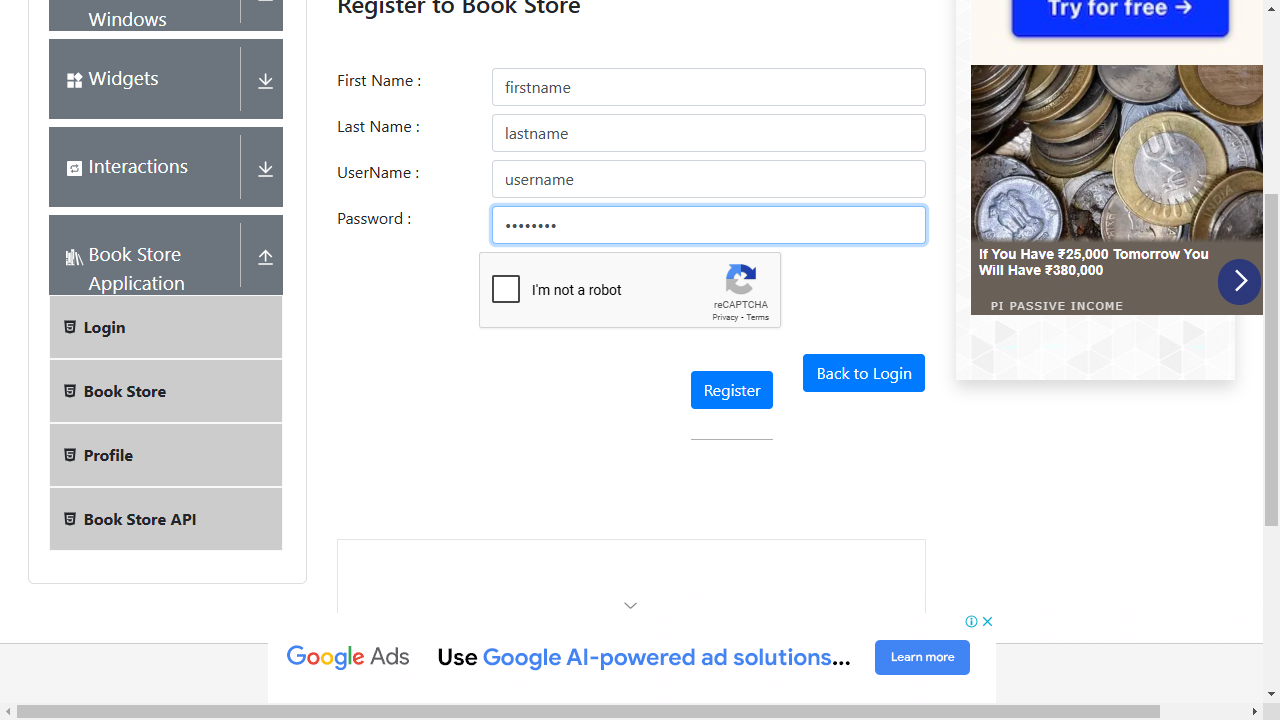
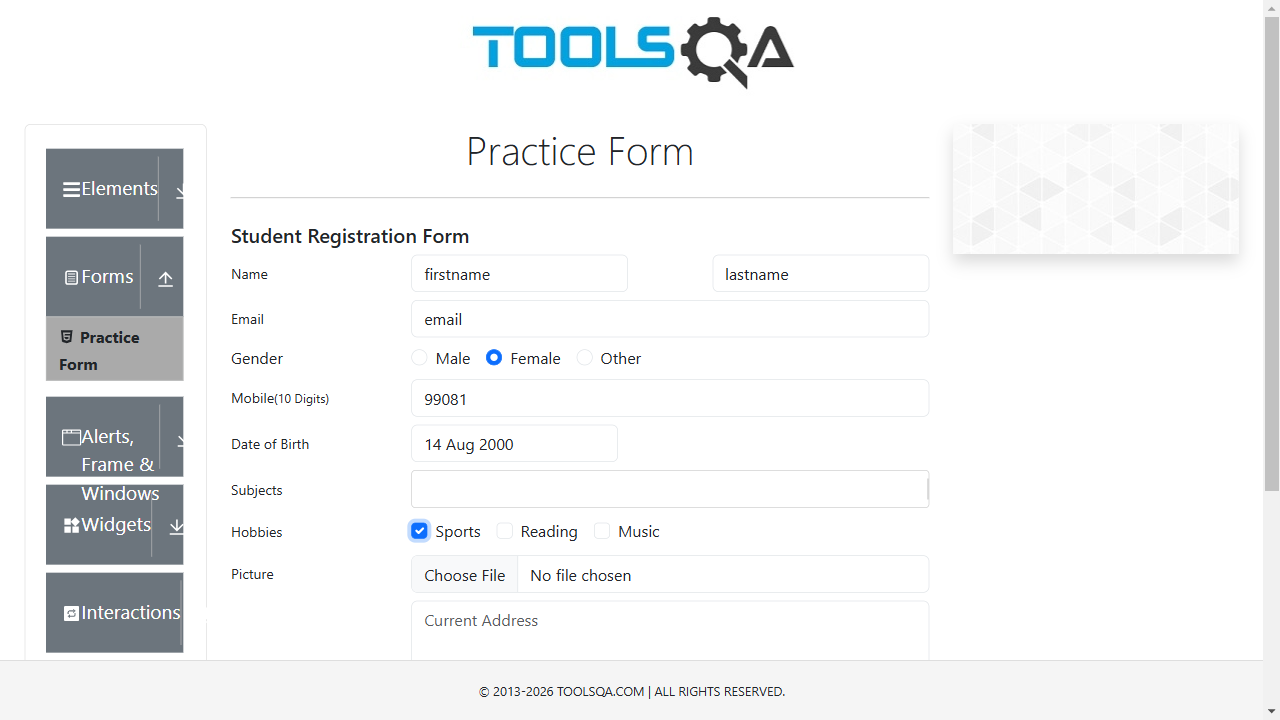
all test

diff --git a/tests/pages/bookswebpage.js b/tests/pages/bookswebpage.js
@@ -2,29 +2,58 @@ const {test,expect} = require('@playwright/test');
 class Bookswebpage{
     constructor(bookpage){
         this.bookpage = bookpage
-        this.firstname = bookpage.locator("#firstname")
-        this.lastname = bookpage.locator("#lastname")
-        this.username12 = bookpage.locator("#userName")
-        this.password12 = bookpage.locator("#password")
-        this.captcha = bookpage.locator('#recaptcha-anchor')
-        this.register12 = bookpage.locator("#register")
+        this.firstname1 = bookpage.locator("#firstName")
+        this.lastname1 = bookpage.locator("#lastName")
+        this.email12 = bookpage.locator("#userEmail")
+        this.Gender1 = bookpage.locator("#gender-radio-2")
+        this.mobile = bookpage.locator('#userNumber')
+        this.dob = bookpage.locator("#dateOfBirthInput")
+        this.inputdob=bookpage.locator("//div[@role='gridcell' and @aria-label='Choose Wednesday,March 4th,2026']")
+        this.subjects=bookpage.locator("#subjectsInput")
+        this.hobbies=bookpage.locator("#hobbies-checkbox-1")
+        this.picture=bookpage.locator("#uploadPicture")
+        this.curraddress=bookpage.locator("#currentAddress")
+        this.state=bookpage.locator("#react-select-3-placeholder")
+        this.statedropdown=bookpage.locator("//*[text()='Uttar Pradesh']")
+        this.city=bookpage.locator()
+        this.citydropdown=bookpage.locator("//*[text()='Agra']")
 
     }
-    async enterDetails(firstname1,lastname1,username1,password1) {
-        await this.firstname.fill(firstname1)
-        await this.lastname.fill(lastname1)
-        await this.username12.fill(username1);
-        await this.password12.fill(password1);
-        await this.captcha.click()
+    async enterDetails1(Samyuktha,Chada,yopmail) {
+        await this.firstname1.fill(Samyuktha)
+        await this.lastname1.fill(Chada)
+        await this.email12.fill(yopmail)
       }
-    //   async clickcaptcha(){
-    //     await this.captcha.waitFor()
-    //   }
-      async Register() {
-        await this.register12.click();
+      async enterDetails2(Gender1,num,dob){
+        await this.Gender1.click()
+        await this.mobile.fill(num)
+        await this.dob.fill(dob)
+
+        
       }
-      async verifyHomePage() {
-        await this.home.waitFor();
+      async enterDetails3(english) {
+        await this.subjects.fill(english)
+        
       }
+      async enterDetails(hobbies) {
+        
+        await this.hobbies.click()
+      }
+
+      async pictureupload() {
+        await this.picture.setInputFiles('c:\Users\Sai\Downloads/sdr pic.jpg')
+      }
+      async enterDetails4(bengaluru){
+        await this.curraddress.fill(bengaluru)
+      }
+      async enterdetails5(state,statedropdown,city,citydropdown){
+        await this.state.click()
+        await this.statedropdown.click()
+        await this.city.click()
+        await this.citydropdown.click()
+      }
+
+      
+
 }
 module.exports = { Bookswebpage };

diff --git a/tests/stepDefinitions/bookssteps.js b/tests/stepDefinitions/bookssteps.js
@@ -3,16 +3,37 @@ const { defineParameterType, When, Given,Then, And } = require("@cucumber/cucumb
 const path = require("path") 
 const playwright = require('@playwright/test');
 
-When('I enter {string} and {string} and {string} and {string}' ,{timeout: 100 * 1000}, async function (firstname,lastname,username12,password12){
+When('I enter the {string} {string} {string}' ,{timeout: 100 * 1000}, async function (firstname1,lastname1,email12){
     this.Bookswebpage = new Bookswebpage(this.page); 
-    await this.Bookswebpage.enterDetails(firstname,lastname,username12,password12);
+    await this.Bookswebpage.enterDetails1(firstname1,lastname1,email12);
 })
 
-Then('I click on Register',{timeout: 100 * 1000} , async function(){
-    await this.Bookswebpage.Register()
+Then('I enter {string} {string} {string}',{timeout: 100 * 1000} , async function(Gender1,mobile,dob){
+    await this.Bookswebpage.enterDetails2(Gender1,mobile,dob);
+})
+Then('enter {string}', {timeout: 100 * 1000} , async function(subjects){
+    await this.Bookswebpage.enterDetails3(subjects);
+}
+)
+Then('click hobbies', {timeout: 100 * 1000} , async function(){
+    await this.Bookswebpage.enterDetails();
+}
+)
+Then('I upload the picture',{timeout: 100 * 1000} , async function(picture){
+    await this.Bookswebpage.pictureupload();
 }
 
 )
-Then('I should see user registered',{timeout: 100 * 1000} , async function(){
-    await this.Bookswebpage.verifyHomePage()
-} )
+Then('I enter the {string}',{timeout: 100 * 1000} , async function(curraddress){
+    await this.Bookswebpage.enterDetails4(curraddress);
+}
+)
+Then('I select state and city',{timeout: 100 * 1000} , async function(){
+    await this.Bookswebpage.enterdetails5(state,statedropdown,city,citydropdown);
+}
+)
+
+
+// Then('I should see user registered',{timeout: 100 * 1000} , async function(){
+//     await this.Bookswebpage.verifyHomePage()
+// } )

diff --git a/playwright.config.ts b/playwright.config.ts
@@ -23,14 +23,22 @@ export default defineConfig({
   /* Opt out of parallel tests on CI. */
   workers: process.env.CI ? 1 : undefined,
   /* Reporter to use. See https://playwright.dev/docs/test-reporters */
-  reporter: 'html',
+  reporter: [
+    ['html',{
+      outputFolder: process.env.REPORT_DIR || 'playwright-report',
+      open: 'never'}]],
+    
   /* Shared settings for all the projects below. See https://playwright.dev/docs/api/class-testoptions. */
   use: {
     /* Base URL to use in actions like `await page.goto('/')`. */
     // baseURL: 'http://127.0.0.1:3000',
 
     /* Collect trace when retrying the failed test. See https://playwright.dev/docs/trace-viewer */
-    trace: 'on-first-retry',
+    trace: 'on',
+    screenshot: 'on',
+    video: 'on',
+    
+
   },
 
   /* Configure projects for major browsers */
